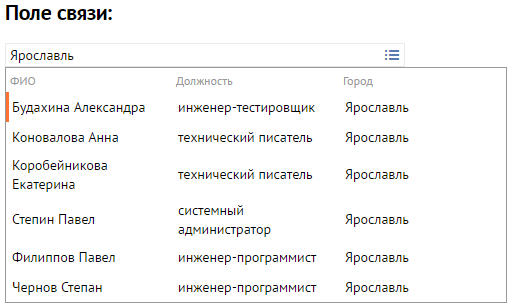
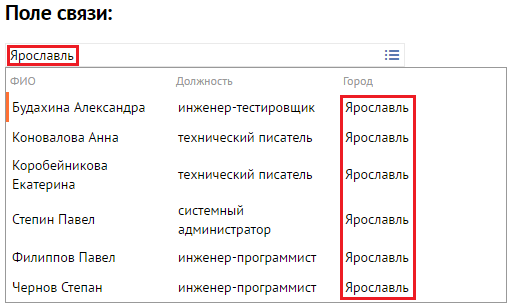
доработка по SuggestMixin

Changed region(s): [[0.6562, 0.2932, 0.8125, 0.9967], [0.0, 0.1466, 0.1562, 0.2345]]

diff --git a/components/Mixins/SuggestMixin/SuggestMixin.module.js b/components/Mixins/SuggestMixin/SuggestMixin.module.js
@@ -108,15 +108,25 @@ define('js!SBIS3.CONTROLS.SuggestMixin', [
              * в выпадающем блоке.
              * Например, для {@link SBIS3.CONTROLS.FieldLink поля связи} такой блок будет выглядеть следующим образом:
              * ![](/SuggestMixin01.png)
-             * Для приведенного в примере поля связи autoShow установлено в true; при переходе фокуса на поле
+             * В приведенном примере для поля связи autoShow установлено в true; при переходе фокуса на поле
              * выпадающий блок отобразил список всех значений автодополнения.
              *
-             * Выпадающий блок со списком значений настраивается с помощью опции {@link list}.
-             * Список значений этого блока можно отфильтровать, настроив опцию {@link listFilter}.
+             * Отображение выпадающего блока настраивается с помощью опции {@link list}.
              * Если список содержит большое количество значений, то он будет отображен с полосой прокрутки.
-             * Отображение списка с полосой прокрутки можно заменить на режим постраничной навигации. Для этого в опции
-             * {@link list} установите для настроек контрола выпадающего блока опции {@link SBIS3.CONTROLS.ListView#showPaging}
-             * и {@link SBIS3.CONTROLS.DSMixin#pageSize}.
+             * Отображение списка с полосой прокрутки можно заменить на режим постраничной навигации, как это показано ниже:
+             * ![](/SuggestMixin02.png)
+             * Для этого в опции {@link list} установите для настроек контрола выпадающего блока
+             * опции {@link SBIS3.CONTROLS.ListView#showPaging} и {@link SBIS3.CONTROLS.DSMixin#pageSize}.
+             *
+             * В приведенных примерах отображаются названия полей списка автодополнения ("ФИО", "Должность" и "Город").
+             * По умолчанию они скрыты; если есть необходимость в их отображении, нужно в {@link list}
+             * определить опцию {@link SBIS3.CONTROLS.DataGridView#showHead}.
+             *
+             * Список значений выпадающего блока можно отфильтровать, настроив опцию {@link listFilter}. С помощью опции
+             * определяют поле источника данных, по значениям которого будет произведена фильтрация.
+             * Например, настройка фильтрации списка по полю "Город" и выбор всех значений автодополнения по городу Ярославль:
+             * ![](/SuggestMixin03.png)
+             * Минимальное количество введенных символов, необходимое для начала поиска значений, определяется опцией {@link startChar}.
              *
              * Подробнее о функционале автодополнения вы можете прочитать в описании к классу {@link SBIS3.CONTROLS.SuggestMixin}.
              * @example
@@ -125,8 +135,10 @@ define('js!SBIS3.CONTROLS.SuggestMixin', [
              * </pre>
              * @see list
              * @see listFilter
+             * @see startChar
              * @see SBIS3.CONTROLS.ListView#showPaging
              * @see SBIS3.CONTROLS.DSMixin#pageSize
+             * @see SBIS3.CONTROLS.DataGridView#showHead
              */
             autoShow: false,
             /**
@@ -177,8 +189,25 @@ define('js!SBIS3.CONTROLS.SuggestMixin', [
              * Для отображения выпадающего блока при переходе фокуса на контрол используется опция {@link autoShow}.
              * При работе с полем связи для построения результатов автодополнения используется класс {@link SBIS3.CONTROLS.DataGridView}.
              * Пример выпадающего блока со списком значений для поля связи:
+             * ![](/SuggestMixin01.png)
+             * В приведенном примере для поля связи autoShow установлено в true; при переходе фокуса на поле
+             * выпадающий блок отобразил список всех значений автодополнения.
+             *
+             * Если список содержит большое количество значений, то он будет отображен с полосой прокрутки.
+             * Отображение списка с полосой прокрутки можно заменить на режим постраничной навигации, как это показано ниже:
              * ![](/SuggestMixin02.png)
-             * Список значений выпадающего блока можно отфильтровать, настроив опцию {@link listFilter}.
+             * Для этого установите для настроек контрола выпадающего блока опции
+             * {@link SBIS3.CONTROLS.ListView#showPaging} и {@link SBIS3.CONTROLS.DSMixin#pageSize}.
+             *
+             * В приведенных примерах отображаются названия полей списка автодополнения ("ФИО", "Должность" и "Город").
+             * По умолчанию они скрыты; если есть необходимость в их отображении, нужно определить опцию
+             * {@link SBIS3.CONTROLS.DataGridView#showHead}.
+             *
+             * Список значений выпадающего блока можно отфильтровать, настроив опцию {@link listFilter}. С помощью опции
+             * определяют поле источника данных, по значениям которого будет произведена фильтрация.
+             * Например, настройка фильтрации списка по полю "Город" и выбор всех значений автодополнения по городу Ярославль:
+             * ![](/SuggestMixin03.png)
+             * Минимальное количество введенных символов, необходимое для начала поиска значений, определяется опцией {@link startChar}.
              *
              * Подробнее о функционале автодополнения вы можете прочитать в описании к классу {@link SBIS3.CONTROLS.SuggestMixin}.
              * @example
@@ -203,8 +232,10 @@ define('js!SBIS3.CONTROLS.SuggestMixin', [
              * @group Data
              * @see autoShow
              * @see listFilter
+             * @see startChar
              * @see SBIS3.CONTROLS.DSMixin#keyField
              * @see SBIS3.CORE.FieldLink/Columns.typedef
+             * @see SBIS3.CONTROLS.DataGridView#showHead
              */
             list: {
                component: 'js!SBIS3.CONTROLS.ListView',
